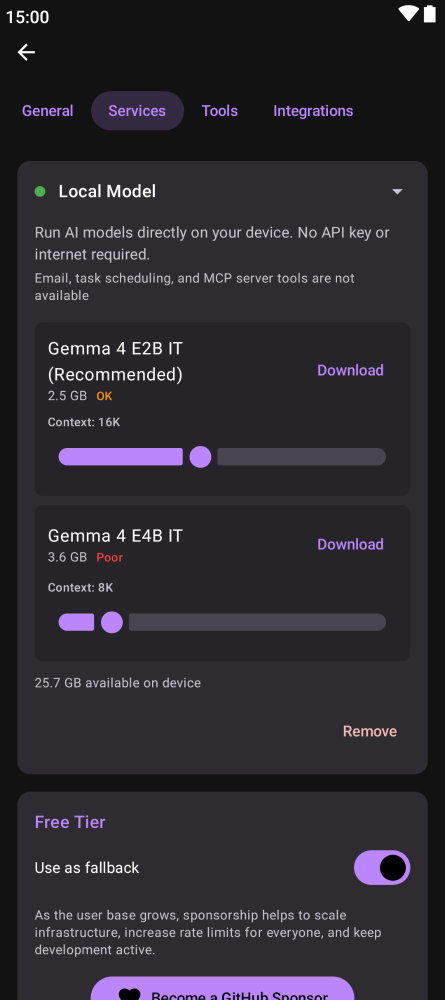
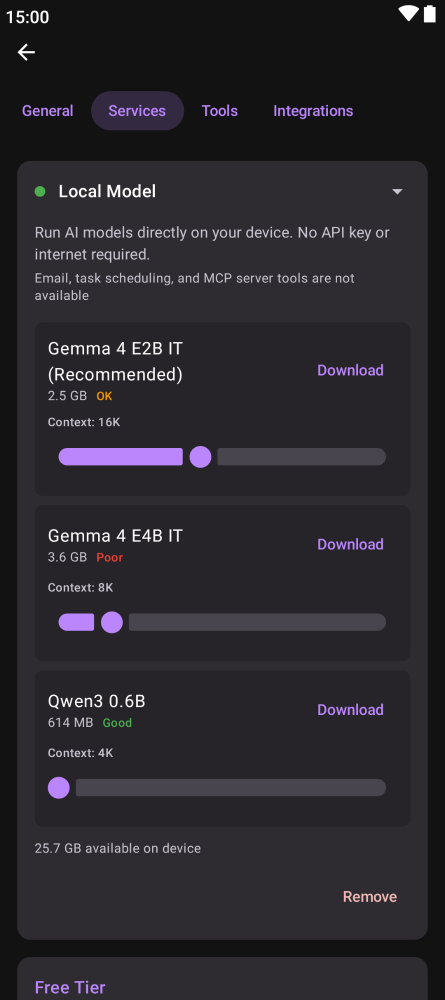
Add qwen model to screenshot data

Changed region(s): [[0.0292, 0.682, 0.964, 1.0], [0.7011, 0.682, 0.9056, 0.744], [0.9056, 0.775, 0.964, 0.806]]

diff --git a/site/run-gemma-locally/index.html b/site/run-gemma-locally/index.html
@@ -287,9 +287,9 @@
       </article>
 
       <article class="howto-step fade-in" id="step-3">
-        <h3>3. Pick a Gemma 4 model</h3>
-        <p>You'll see two models: <strong>Gemma 4 E2B IT</strong> (2.58 GB) and <strong>Gemma 4 E4B IT</strong> (3.65 GB). Kai shows a Good / OK / Poor label on each one based on your device's RAM and the context size you pick. If your phone has 6 GB of RAM, start with E2B. On an 8 GB+ machine, E4B's quality is usually worth the extra memory.</p>
-        <img src="../img/gemma-local-model-card.png" alt="LiteRT settings card showing Gemma 4 E2B and E4B with size and download buttons" loading="lazy">
+        <h3>3. Pick a model</h3>
+        <p>You'll see three models: <strong>Gemma 4 E2B IT</strong> (2.58 GB, recommended), <strong>Gemma 4 E4B IT</strong> (3.65 GB), and <strong>Qwen3 0.6B</strong> (586 MB). Kai shows a Good / OK / Poor label on each one based on your device's RAM and the context size you pick. On an 8 GB+ machine, E4B's quality is usually worth the extra memory. Qwen3 0.6B is chat-only — it can't reliably call Kai's tools.</p>
+        <img src="../img/gemma-local-model-card.png" alt="LiteRT settings card showing Gemma 4 E2B IT (recommended), Gemma 4 E4B IT, and Qwen3 0.6B with size and download buttons" loading="lazy">
       </article>
 
       <article class="howto-step fade-in" id="step-4">
